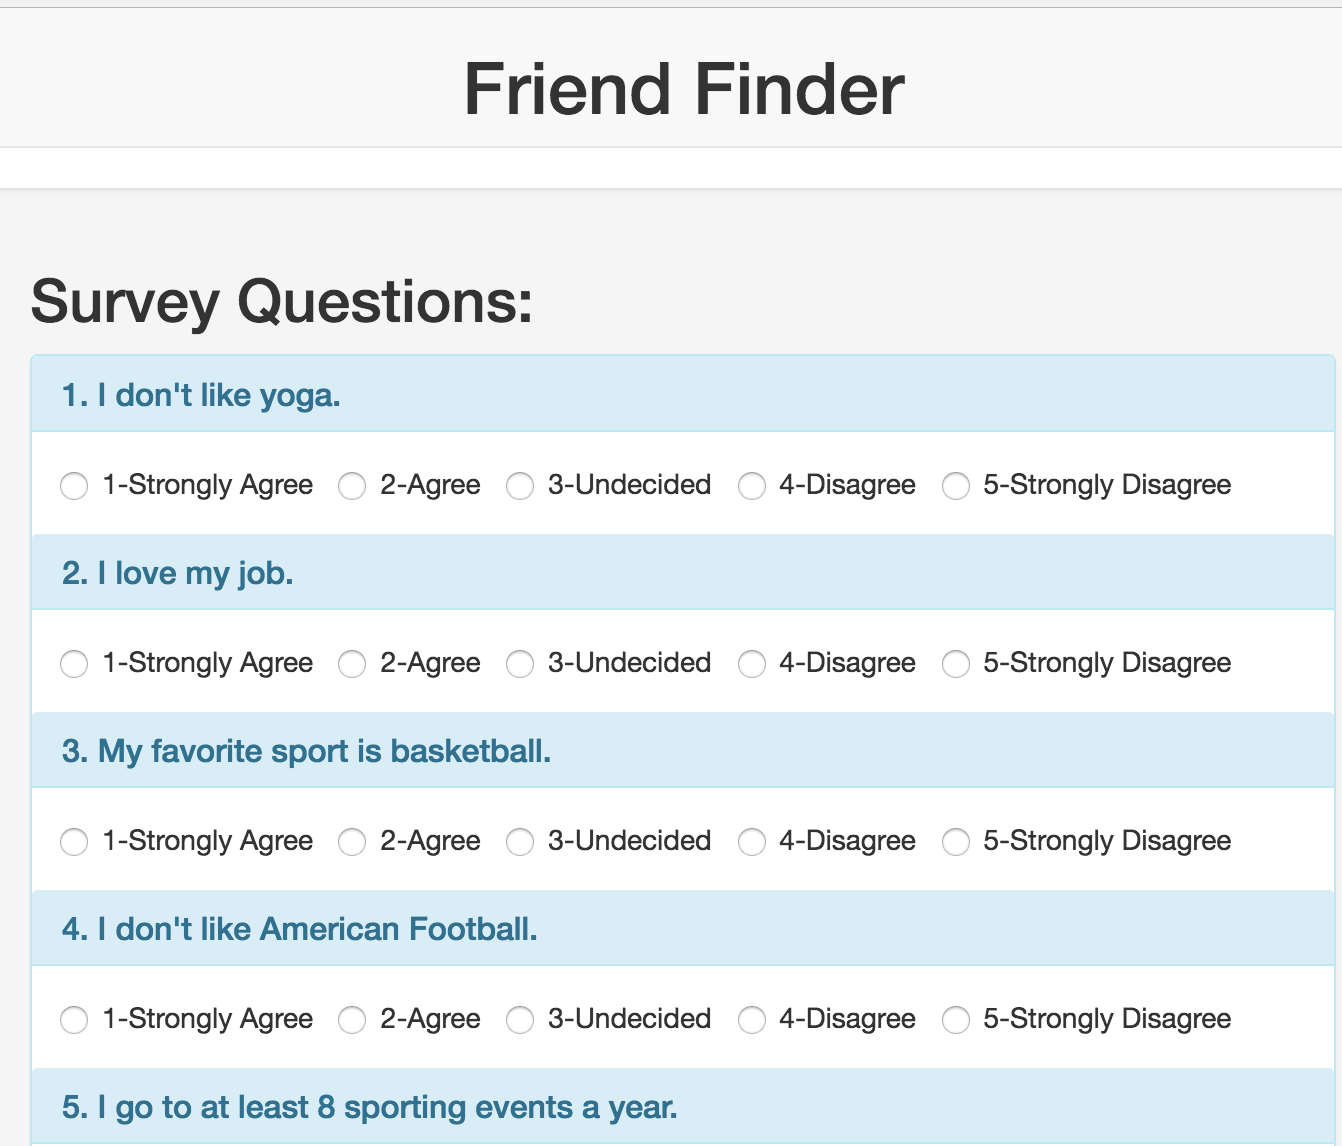
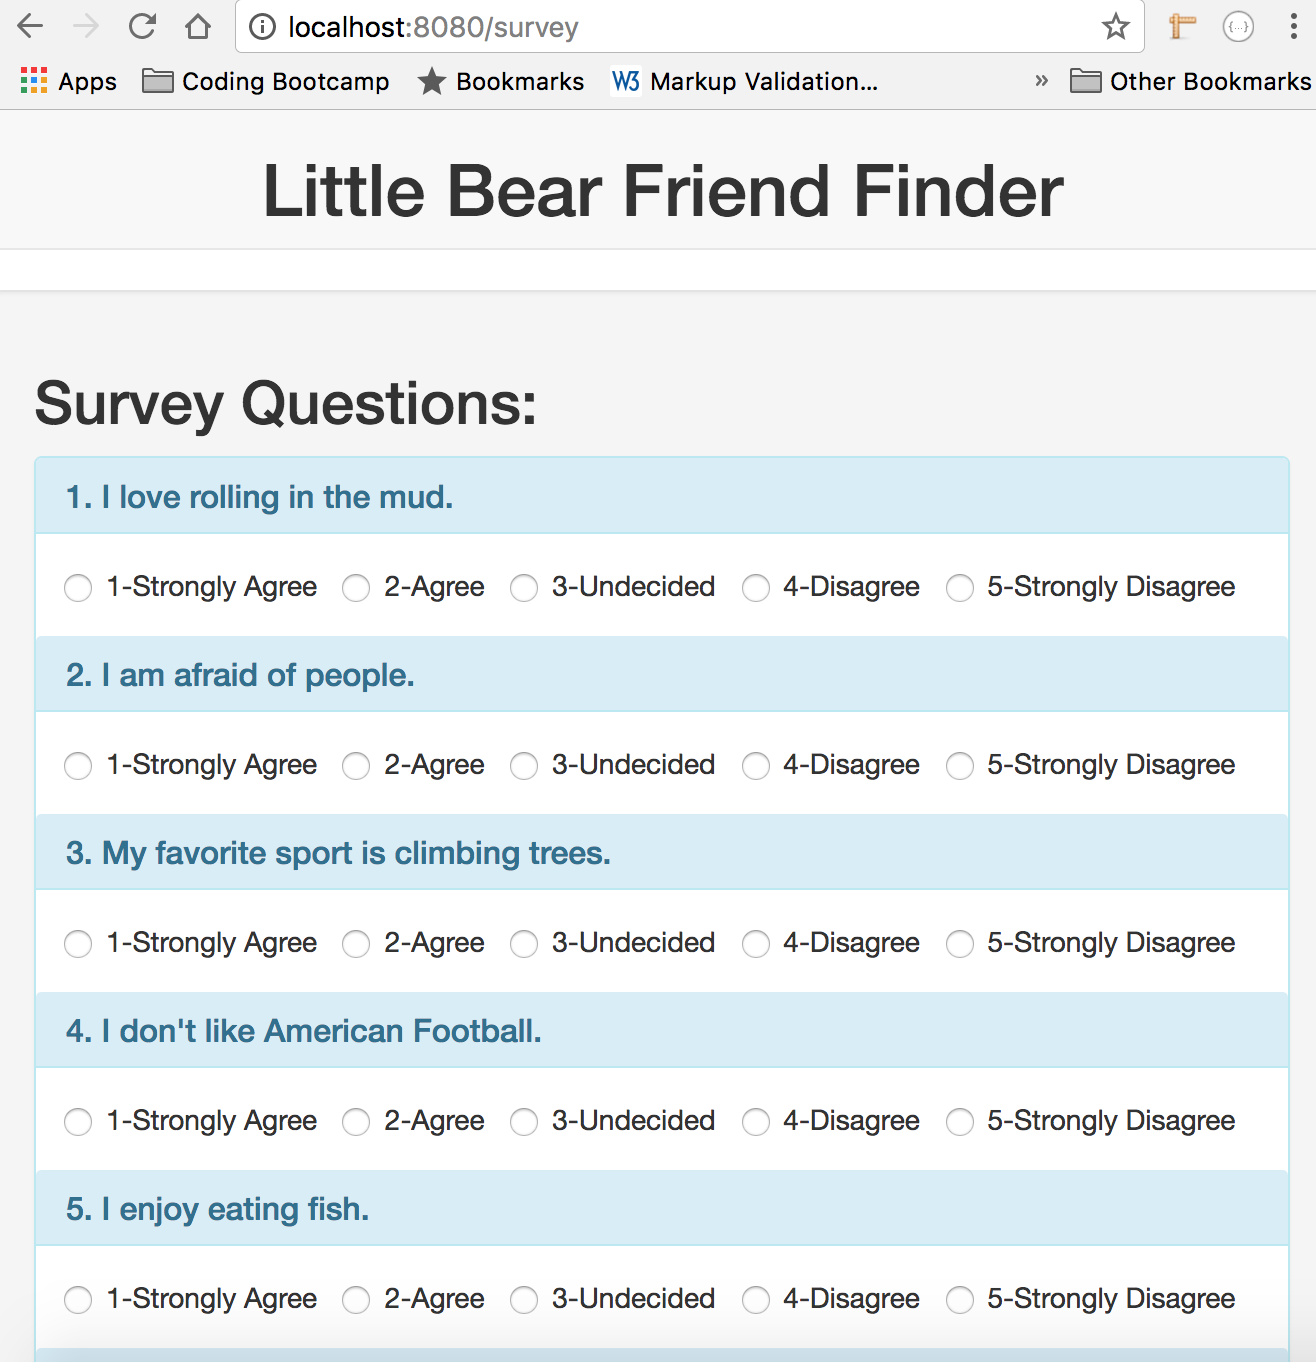
added screens

diff --git a/app/public/home.html b/app/public/home.html
@@ -12,15 +12,19 @@
 	
 </head>
 
-<body>
+<body style="background-image: url(https://baby-animals.net/wp-content/gallery/Baby-bear-wallpapers/Baby-bear-wallpaper-2.jpg); background-size: cover;background-repeat: no-repeat;
+    height: 50vh;">
 
-      <div class="panel-info">
-      	<h1>Welcome to Little Bear Friend Finder</h1>
-      	<p>This is not your usual Friend Finder here we use a compatability score to match you to a Little Bear Friend. This Little Bear will have some things in common with you. To get started your 1st Step is for you to fill out the survey information to become a member. See link below.</p>
-      	<p><a href="/survey">Link to Become a member</a></p>
+
+<!-- <div class="jumbotron-fluid"> -->
+   <!-- <div class="container"> -->
+   <div class="container">
+    
+      <div class="well well-sm">
+        <h4>Welcome to Little Bear Friend Finder</h4>
+        <p>This is not your usual Friend Finder because we use a compatability score which is generated based on your survey choices. Our app will match you with the most compatible Little Bear Friend. The Little Bear will have some things in common with you. To get started use the <a href="/survey">Link to Become a member.</a></p>
       </div>
- 
-
-
+  </div>
+       
 </body>
 </html>

diff --git a/app/public/survey.html b/app/public/survey.html
@@ -23,7 +23,7 @@
 	  </div>
 	</nav>
 
-	<div class="well"">
+	<div class="well">
 		<h2 class="text-left">Survey Questions:</h2>
 		<div class="panel panel-info" id="survey">
 		  	<div class="panel-heading">
@@ -87,7 +87,7 @@
 				</label>
 		  	</div>
 			<div class="panel-heading">
-				<h3 class="panel-title">4. I don't like American Football.</h3>
+				<h3 class="panel-title">4. I like honey.</h3>
 			</div>
 			<div class="panel-body">
 				<label class="radio-inline">
@@ -418,7 +418,7 @@
 
 				// jQuery used to Add compatablility information to html
 				$("#dialogModal").modal("show")  
-				$("#gridSystemModalLabel").text(findFriend.name + ' Found a Friend' + friends[smallestIndex].name)
+				$("#gridSystemModalLabel").text(findFriend.name + ' Found a Friend ' + friends[smallestIndex].name)
 				
 				$("#findFriend").append("<img src='" + findFriend.photo + "' alt='Find Friend Photo' style=width:250px;height:228px;border-style: double; border-width: 5px;>");
 				$("#findFriendName").append("<h5>" + findFriend.name + "</h5>");

diff --git a/app/data/friends.js b/app/data/friends.js
@@ -16,7 +16,7 @@ var friendsArray = [
 	},
 		{
 		name: "Hoo Bear",
-		photo: "https://baby-animals.net/wp-content/gallery/Baby-bear-wallpapers/Baby-bear-wallpaper-2.jpg",
+		photo: "https://s-media-cache-ak0.pinimg.com/236x/a0/04/1e/a0041ea3070dbee16150065702d48834.jpg",
 		scores: [
 		"1", "2", "3", "4", "5", "1", "2", "3", "3", "4"]
 	}

diff --git a/README.md b/README.md
@@ -8,11 +8,15 @@ This is a full-stack site that starts with a survey and then uses the user surve
 
 
 ## What it looks like:
-![alt text](screenshots/FriendFinderSurvey.png "Friend Finder")
-
+![alt text](screenshots/FriendFinderHome.png "Little Bear Friend Finder Home Screen")
+![alt text](screenshots/FriendFinderSurvey.png "Little Bear Friend Finder Survey Screen")
+![alt text](FriendFoundModalScreen.png "Little Bear Friend Found Modal Screen")
+![alt text](AllFriends.png "Little Bear ALL Friends API Screen")
+![alt text](APIAllFriends.png "All Friends api/friends")
 
 ## Technologies Used: 
 - JavaScript 
+- Bootstrap (used modal to display message)
 - node.js 
 - mySQL
 - npm modules used:<br>
